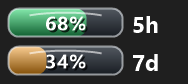
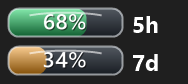
Smooth taskbar battery percentage text
Small grid-fitted bold percentages and a full-pixel shadow made the bar
labels look jagged. Render 11-pixel Segoe UI Semibold into a 4x transparent
layer, downsample with bicubic interpolation, and use a softer half-pixel
shadow for centered and external percentages.

Update the Unreleased changelog, README, architecture notes, and affected
synthetic galleries. Add a reproducible cropped percentage preview for
all three positions at 1x, 1.25x, 1.5x, and 2x render scales.

Validation completed before installation:
- dotnet restore
- dotnet format --verify-no-changes --no-restore
- dotnet build --configuration Release --no-restore (zero warnings/errors)
- dotnet run --configuration Release --no-build -- --self-test
- screenshot export and visual review of percentage/style previews
- changed documentation link checks and git diff --check
- exact self-contained win-x64 published executable --self-test (exit 0)

The tested artifact was installed with a backup and matching SHA-256. The
existing startup task stayed enabled, and one supervisor and one widget
were confirmed alive with the widget reaching its UI message loop.
Static synthetic previews and DPI regression checks are not manual desktop
verification. Multi-monitor appearance, Windows scaling, and left/right/
custom desktop placement were not manually verified.

Changed region(s): [[0.2128, 0.1667, 0.4787, 0.4048], [0.2128, 0.619, 0.4787, 0.8333]]

diff --git a/ScreenshotExporter.cs b/ScreenshotExporter.cs
@@ -51,6 +51,7 @@ internal static class ScreenshotExporter
             RenderProjectColorGallery(outputDirectory, snapshot, showProjectIcons: true);
             RenderTaskTooltipGallery(outputDirectory, snapshot);
             RenderFinishedAgentGallery(outputDirectory, snapshot);
+            RenderBarTextPreview(outputDirectory);
             TokenReportForm.ExportPreview(Path.Combine(outputDirectory, "usage-report.png"));
             return 0;
         }
@@ -59,6 +60,35 @@ internal static class ScreenshotExporter
             Console.Error.WriteLine(exception);
             return 1;
         }
+    }
+
+    private static void RenderBarTextPreview(string outputDirectory)
+    {
+        using var gallery = new Bitmap(960, 502);
+        using var graphics = Graphics.FromImage(gallery);
+        graphics.Clear(Color.FromArgb(20, 20, 22));
+        using var captionFont = new Font("Segoe UI", 11, FontStyle.Regular, GraphicsUnit.Pixel);
+        graphics.DrawString("Percentage text · static synthetic previews · 43% / 45% remaining", captionFont, Brushes.White, 12, 10);
+        var now = DateTimeOffset.UnixEpoch;
+        var snapshot = new UsageSnapshot(new UsageWindow(57, 300, now.AddHours(2)),
+            new UsageWindow(55, 10080, now.AddDays(3)), null);
+        float[] scales = [1f, 1.25f, 1.5f, 2f];
+        for (var row = 0; row < scales.Length; row++)
+            for (var column = 0; column < 3; column++)
+            {
+                var position = new[] { PercentagePosition.Center, PercentagePosition.Left, PercentagePosition.Right }[column];
+                var card = new Rectangle(column * 320 + 8, row * 116 + 30, 304, 112);
+                using var background = new SolidBrush(TaskbarColor);
+                graphics.FillRectangle(background, card);
+                graphics.DrawString($"{scales[row]:0.##}× · {position}", captionFont, Brushes.White, card.X + 8, card.Y + 4);
+                using var menu = new ContextMenuStrip();
+                using var widget = new TaskbarWidgetForm(menu, Screen.PrimaryScreen ?? Screen.AllScreens.First(), loadSettings: false);
+                widget.ApplyDisplaySettings(DisplayStyle.Neon, false, true, LabelContentMode.Static, LabelPosition.Right, position);
+                widget.SetSnapshot(snapshot);
+                using var preview = widget.RenderPreview(TaskbarColor, scales[row]);
+                graphics.DrawImageUnscaled(preview, card.X + 8, card.Y + 19);
+            }
+        gallery.Save(Path.Combine(outputDirectory, "bar-text-preview.png"), ImageFormat.Png);
     }
 
     private static void RenderFinishedAgentGallery(string outputDirectory, UsageSnapshot snapshot)

diff --git a/TaskbarWidgetForm.cs b/TaskbarWidgetForm.cs
@@ -1207,11 +1207,19 @@ internal sealed class TaskbarWidgetForm : Form
 
     private static void DrawPercentageText(Graphics graphics, Rectangle bounds, int? remainingPercent, Color color)
     {
+        // Small grid-fitted bold glyphs and a full-pixel shadow look jagged on
+        // the alpha surface. Downsample grayscale text without ClearType fringes.
+        const int samplingScale = 4;
+        using var textLayer = new Bitmap(bounds.Width * samplingScale, bounds.Height * samplingScale,
+            PixelFormat.Format32bppPArgb);
+        using var textGraphics = Graphics.FromImage(textLayer);
+        textGraphics.ScaleTransform(samplingScale, samplingScale);
+        textGraphics.TextRenderingHint = System.Drawing.Text.TextRenderingHint.AntiAlias;
         var text = remainingPercent is null ? "--" : $"{remainingPercent}%";
-        using var font = new Font("Segoe UI", 10f, FontStyle.Bold, GraphicsUnit.Pixel);
+        using var font = new Font("Segoe UI Semibold", 11f, FontStyle.Regular, GraphicsUnit.Pixel);
         var shadowColor = color.GetBrightness() < 0.45f
-            ? Color.FromArgb(190, 255, 255, 255)
-            : Color.FromArgb(190, 0, 0, 0);
+            ? Color.FromArgb(150, 255, 255, 255)
+            : Color.FromArgb(150, 0, 0, 0);
         using var shadowBrush = new SolidBrush(shadowColor);
         using var textBrush = new SolidBrush(color);
         using var format = new StringFormat
@@ -1219,9 +1227,14 @@ internal sealed class TaskbarWidgetForm : Form
             Alignment = StringAlignment.Center,
             LineAlignment = StringAlignment.Center
         };
-        var textBounds = new RectangleF(bounds.X, bounds.Y, bounds.Width, bounds.Height);
-        graphics.DrawString(text, font, shadowBrush, new RectangleF(textBounds.X + 1, textBounds.Y + 1, textBounds.Width, textBounds.Height), format);
-        graphics.DrawString(text, font, textBrush, textBounds, format);
+        var textBounds = new RectangleF(0, 0, bounds.Width, bounds.Height);
+        textGraphics.DrawString(text, font, shadowBrush, new RectangleF(0.5f, 0.5f, bounds.Width, bounds.Height), format);
+        textGraphics.DrawString(text, font, textBrush, textBounds, format);
+        var state = graphics.Save();
+        graphics.InterpolationMode = InterpolationMode.HighQualityBicubic;
+        graphics.PixelOffsetMode = PixelOffsetMode.HighQuality;
+        graphics.DrawImage(textLayer, bounds, 0, 0, textLayer.Width, textLayer.Height, GraphicsUnit.Pixel);
+        graphics.Restore(state);
     }
 
     private void OnDragStart(object? sender, MouseEventArgs eventArgs)

diff --git a/docs/architecture.md b/docs/architecture.md
@@ -268,6 +268,14 @@ Labels, percentages, and activity counts use pixel font sizes matching the drawn
 geometry, so a high-DPI graphics surface cannot enlarge text independently of
 the batteries and icons. Preview rendering accepts an explicit surface DPI for
 regression checks from 96 through 288 DPI.
+Battery percentages render Segoe UI Semibold at an 11-pixel size into a 4×
+transparent premultiplied-alpha layer, then downsample with high-quality bicubic
+interpolation. Grayscale antialiasing avoids ClearType color fringes on the
+transparent taskbar; a half-pixel contrast shadow avoids the heavy offset edge
+of the former bold text. The same renderer handles centered and external
+percentages. `--export-screenshots` includes `bar-text-preview.png` with synthetic
+43%/45% Neon bars at 1×, 1.25×, 1.5×, and 2× render scales and all three positions.
+These static examples do not establish manual display or Windows scaling tests.
 
 This design intentionally avoids DLL injection and Explorer patching. Out-of-context
 foreground and window-location accessibility event hooks restore z-order after

diff --git a/README.md b/README.md
@@ -92,6 +92,10 @@ dotnet publish --configuration Release --runtime win-x64 `
 
 The top battery is the 5-hour window; the bottom battery is the weekly window.
 Battery width and color both represent the percentage remaining.
+Percentages use smooth Segoe UI Semibold text with a subtle contrast shadow,
+whether centered in the battery or placed beside it.
+
+![Static synthetic percentage previews at 1×, 1.25×, 1.5×, and 2× render scales, not manual desktop verification](docs/images/bar-text-preview.png)
 
 Right-click either the taskbar widget or notification-area icon:
 

diff --git a/CHANGELOG.md b/CHANGELOG.md
@@ -70,6 +70,9 @@ All notable changes are documented here. This project follows
 
 ### Fixed
 
+- Smooth taskbar battery percentages with supersampled Segoe UI Semibold text
+  and a softer shadow, including percentages placed beside the bars. Preserve
+  proportional sizing on high-DPI surfaces and transparent taskbar blending.
 - Use per-pixel alpha for the taskbar widget so finished icons and badges fade
   uniformly into the actual taskbar at 40% opacity, preserving their original
   colors instead of blending toward a black transparency key. Static previews
